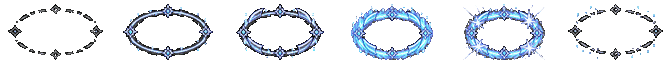
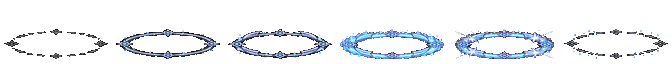
Fix Shen portraits and motion alignment

diff --git a/mods/lol_mod/tools/validate_lol_mod.py b/mods/lol_mod/tools/validate_lol_mod.py
@@ -168,10 +168,10 @@ def validate_animation(sheet_relative: str, anim_relative: str, required: dict[s
 def validate_actor_and_icons(champion: dict[str, Any]) -> None:
     actor_path = MOD_ROOT / "aseprite_resources/champions/shen#sheet.png"
     actor = Image.open(actor_path).convert("RGBA")
-    check(actor.size == (768, 64), f"actor sheet must be 768x64, got {actor.size}")
+    check(actor.size == (1152, 64), f"actor sheet must be 1152x64, got {actor.size}")
     bboxes = []
     hashes = []
-    for index in range(12):
+    for index in range(18):
         frame = actor.crop((index * 64, 0, (index + 1) * 64, 64))
         bbox = frame.getchannel("A").getbbox()
         check(bbox is not None, f"actor frame {index} is empty")
@@ -181,12 +181,31 @@ def validate_actor_and_icons(champion: dict[str, Any]) -> None:
             check(bbox[0] >= 2 and bbox[2] <= 62, f"actor frame {index} touches a side edge")
         hashes.append(hashlib.sha256(frame.tobytes()).hexdigest())
     if bboxes:
-        core_heights = [bbox[3] - bbox[1] for bbox in bboxes[:11]]
+        core_heights = [bbox[3] - bbox[1] for bbox in bboxes[:17]]
         check(max(core_heights) / min(core_heights) <= 1.22, "core actor body scale varies by more than 22%")
         first = bboxes[0]
         check(first[1] <= 12 and 44 <= first[3] <= 46 and first[3] - first[1] >= 34, "first idle frame does not match the official full-body baseline")
-    check(len(set(hashes[2:5])) == 3, "run source poses must be visually distinct")
-    check(len(set(hashes[5:8])) == 3, "attack source poses must be visually distinct")
+    check(len(set(hashes[2:11])) == 9, "run cycle must contain nine unique image-gen poses")
+    check(hashes[2] != hashes[10], "run cycle first and last poses must not be identical")
+    check(len(set(hashes[11:14])) == 3, "attack source poses must be visually distinct")
+
+    run_frames = [actor.crop((index * 64, 0, (index + 1) * 64, 64)) for index in range(2, 11)]
+    lower_sets: list[set[tuple[int, int]]] = []
+    lower_counts: list[int] = []
+    for frame in run_frames:
+        alpha = frame.getchannel("A")
+        pixels = {(x, y) for y in range(32, 46) for x in range(64) if alpha.getpixel((x, y)) >= 128}
+        lower_sets.append(pixels)
+        lower_counts.append(len(pixels))
+    if lower_counts:
+        check(min(lower_counts) >= max(lower_counts) * 0.45, "a run frame loses too much lower-body/leg detail")
+    differences = []
+    for current, following in zip(lower_sets, lower_sets[1:] + lower_sets[:1], strict=True):
+        union = current | following
+        differences.append(len(current ^ following) / len(union) if union else 0.0)
+    if differences:
+        check(min(differences) >= 0.08, "adjacent run frames are too similar to show a gait phase")
+        check(max(differences) <= 0.85, "adjacent run frames change too abruptly")
 
     for icon_path in champion.get("skill_icons", []):
         relative = icon_path.removeprefix("asset/lol_mod/") + ".png"
@@ -196,6 +215,32 @@ def validate_actor_and_icons(champion: dict[str, Any]) -> None:
             icon = Image.open(path)
             check(icon.size == (64, 64), f"{relative} must be 64x64")
             check(icon.convert("RGBA").getchannel("A").getbbox() is not None, f"{relative} is empty")
+
+
+def validate_compact_view_and_w_layout() -> None:
+    style = load_json("style/champion_view.champion_view")
+    shen = style.get("entries", {}).get("lol_shen", {})
+    check(shen.get("face") == {"x": 6, "y": -34}, "compact portrait must center Shen's head at face x=6/y=-34")
+    check(shen.get("center") == {"x": 0, "y": -12}, "battle/card center offset must remain x=0/y=-12")
+
+    w_path = MOD_ROOT / "aseprite_resources/effects/shen_w#sheet.png"
+    w_sheet = Image.open(w_path).convert("RGBA")
+    check(w_sheet.size == (672, 64), f"W sheet must be 672x64, got {w_sheet.size}")
+    for index in range(6):
+        frame = w_sheet.crop((index * 112, 0, (index + 1) * 112, 64))
+        bbox = frame.getchannel("A").getbbox()
+        check(bbox is not None, f"W frame {index} is empty")
+        if not bbox:
+            continue
+        width = bbox[2] - bbox[0]
+        height = bbox[3] - bbox[1]
+        center_x = (bbox[0] + bbox[2] - 1) / 2
+        center_y = (bbox[1] + bbox[3] - 1) / 2
+        check(96 <= width <= 106, f"W frame {index} must span a readable 96-106px field width")
+        check(24 <= height <= 34, f"W frame {index} must be a flat 24-34px ground ellipse")
+        check(54 <= center_x <= 57, f"W frame {index} is not horizontally centered")
+        check(42 <= center_y <= 45, f"W frame {index} is not centered on Shen's y=44 foot point")
+        check(bbox[0] >= 2 and bbox[2] <= 110 and bbox[1] >= 2 and bbox[3] <= 62, f"W frame {index} touches an atlas edge")
 
 
 def validate_localization() -> None:
@@ -252,14 +297,14 @@ def validate_audio(champion: dict[str, Any], override: dict[str, Any]) -> None:
 def validate_imagegen_sources() -> None:
     manifest = load_json("qa/shen_imagegen_sources.json")
     roles = {source.get("role") for source in manifest.get("sources", [])}
-    check(roles == {"actor_model", "q_icon", "w_icon", "r_icon", "q_vfx", "w_vfx", "r_vfx"}, "image-gen source roles are incomplete")
+    check(roles == {"actor_model", "run_cycle", "q_icon", "w_icon", "r_icon", "q_vfx", "w_vfx", "r_vfx"}, "image-gen source roles are incomplete")
     for source in manifest.get("sources", []):
         path = MOD_ROOT / source.get("path", "missing")
         check(path.is_file(), f"missing image-gen source: {source.get('path')}")
         if path.is_file():
             check(sha256(path) == source.get("sha256"), f"image-gen source hash mismatch: {source.get('path')}")
     processed = sorted((MOD_ROOT / "source/processed").glob("*_alpha.png"))
-    check(len(processed) == 7, "processed image-gen source set must contain 7 alpha PNGs")
+    check(len(processed) == 8, "processed image-gen source set must contain 8 alpha PNGs")
     for path in processed:
         image = Image.open(path).convert("RGBA")
         corners = [image.getpixel((0, 0)), image.getpixel((image.width - 1, 0)), image.getpixel((0, image.height - 1)), image.getpixel((image.width - 1, image.height - 1))]
@@ -285,7 +330,6 @@ def main() -> int:
     champion = load_json("champion/lol_shen.data_champion")
     override = load_json("mod.override_info")
     load_json("mod.mod_info")
-    load_json("style/champion_view.champion_view")
     validate_data_contract(champion)
     validate_animation(
         "aseprite_resources/champions/shen#sheet.png",
@@ -296,6 +340,7 @@ def main() -> int:
     validate_animation("aseprite_resources/effects/shen_w#sheet.png", "aseprite_resources/effects/shen_w#anim.fanim", {"field": 6})
     validate_animation("aseprite_resources/effects/shen_r#sheet.png", "aseprite_resources/effects/shen_r#anim.fanim", {"guard": 5, "arrival": 4})
     validate_actor_and_icons(champion)
+    validate_compact_view_and_w_layout()
     validate_localization()
     validate_audio(champion, override)
     validate_imagegen_sources()

diff --git a/mods/lol_mod/tools/build_lol_mod.py b/mods/lol_mod/tools/build_lol_mod.py
@@ -19,6 +19,7 @@ ICON_DIR = MOD_ROOT / "icons"
 QA_DIR = MOD_ROOT / "qa"
 
 ACTOR_SOURCE = SOURCE / "shen_actor_contact_alpha.png"
+RUN_SOURCE = SOURCE / "shen_run_contact_alpha.png"
 ICON_SOURCES = {
     "shen_skill.png": SOURCE / "shen_q_icon_source_alpha.png",
     "shen_skill2.png": SOURCE / "shen_w_icon_source_alpha.png",
@@ -26,7 +27,7 @@ ICON_SOURCES = {
 }
 VFX_SOURCES = {
     "shen_q": (SOURCE / "shen_q_vfx_contact_alpha.png", 4, 2, (64, 64), (58, 48)),
-    "shen_w": (SOURCE / "shen_w_vfx_contact_alpha.png", 3, 2, (112, 64), (104, 56)),
+    "shen_w": (SOURCE / "shen_w_vfx_contact_alpha.png", 3, 2, (112, 64), (104, 30)),
     "shen_r": (SOURCE / "shen_r_vfx_contact_alpha.png", 4, 2, (112, 112), (100, 100)),
 }
 
@@ -115,7 +116,7 @@ def fit_cell(
 def build_actor() -> tuple[Path, Path, list[Image.Image]]:
     source = Image.open(ACTOR_SOURCE).convert("RGBA")
     cells = split_grid(source, 4, 3)
-    frames: list[Image.Image] = []
+    base_frames: list[Image.Image] = []
     # A proven 64x64 additive actor (Galio) occupies about 35 pixels in idle.
     # Keep Shen in that same battle/UI scale class instead of letting the large
     # image-gen source fill the full frame and get cropped in compact cards.
@@ -138,7 +139,29 @@ def build_actor() -> tuple[Path, Path, list[Image.Image]]:
         # encyclopedia cards, compact portraits, and the battle map.
         y = 45 - resized.height
         frame.alpha_composite(resized, (x, y))
-        frames.append(frame)
+        base_frames.append(frame)
+
+    # The original contact sheet only supplied three broad run poses. A second
+    # image-gen pass supplies nine unique gait phases so the reduced sprite keeps
+    # readable left/right contacts and two real passing (cross-step) silhouettes.
+    run_source = Image.open(RUN_SOURCE).convert("RGBA")
+    run_frames: list[Image.Image] = []
+    for cell in split_grid(run_source, 3, 3):
+        cell = hard_alpha(cell)
+        subject = cell.crop(alpha_bbox(cell))
+        scale = min(36 / subject.height, 58 / subject.width)
+        resized = subject.resize(
+            (max(1, round(subject.width * scale)), max(1, round(subject.height * scale))),
+            Image.Resampling.LANCZOS,
+        )
+        resized = palette_finish(resized, 40)
+        frame = Image.new("RGBA", (64, 64), (0, 0, 0, 0))
+        frame.alpha_composite(resized, ((64 - resized.width) // 2, 45 - resized.height))
+        run_frames.append(frame)
+
+    # Runtime atlas order: two idles, nine generated run phases, then the seven
+    # non-run actions from the accepted 4x3 actor source.
+    frames = [base_frames[0], base_frames[1], *run_frames, *base_frames[5:12]]
 
     atlas = Image.new("RGBA", (64 * len(frames), 64), (0, 0, 0, 0))
     for index, frame in enumerate(frames):
@@ -151,13 +174,13 @@ def build_actor() -> tuple[Path, Path, list[Image.Image]]:
 
     sequences: dict[str, tuple[list[int], list[float]]] = {
         "idle": ([0, 1, 0, 1, 0, 1, 0], [0.12] * 7),
-        "run": ([2, 3, 4, 3, 2, 3, 4, 3, 2], [0.08] * 9),
-        "attack": ([5, 6, 6, 7, 0, 0], [0.05, 0.05, 0.05, 0.08, 0.08, 0.09]),
-        "skill": ([5, 8, 8, 8, 7, 1, 0], [0.06, 0.07, 0.08, 0.09, 0.10, 0.10, 0.10]),
-        "skill2": ([0, 9, 9, 1, 0], [0.08, 0.12, 0.12, 0.09, 0.09]),
-        "ult": ([0, 10, 10, 10, 0], [0.12, 0.18, 0.48, 0.22, 0.20]),
-        "hit": ([11], [0.12]),
-        "dead": ([11], [0.60]),
+        "run": (list(range(2, 11)), [0.08] * 9),
+        "attack": ([11, 12, 12, 13, 0, 0], [0.05, 0.05, 0.05, 0.08, 0.08, 0.09]),
+        "skill": ([11, 14, 14, 14, 13, 1, 0], [0.06, 0.07, 0.08, 0.09, 0.10, 0.10, 0.10]),
+        "skill2": ([0, 15, 15, 1, 0], [0.08, 0.12, 0.12, 0.09, 0.09]),
+        "ult": ([0, 16, 16, 16, 0], [0.12, 0.18, 0.48, 0.22, 0.20]),
+        "hit": ([17], [0.12]),
+        "dead": ([17], [0.60]),
     }
     anims: dict[str, object] = {}
     for name, (indexes, durations) in sequences.items():
@@ -203,7 +226,19 @@ def build_vfx() -> list[Path]:
     outputs: list[Path] = []
     for name, (source_path, columns, rows, frame_size, max_visible) in VFX_SOURCES.items():
         source = Image.open(source_path).convert("RGBA")
-        frames = [fit_cell(cell, frame_size, max_visible) for cell in split_grid(source, columns, rows)]
+        if name == "shen_w":
+            frames = []
+            for cell in split_grid(source, columns, rows):
+                cell = hard_alpha(cell)
+                subject = cell.crop(alpha_bbox(cell)).resize(max_visible, Image.Resampling.LANCZOS)
+                subject = palette_finish(subject)
+                centered = Image.new("RGBA", frame_size, (0, 0, 0, 0))
+                x = (frame_size[0] - subject.width) // 2
+                y = round(44 - subject.height / 2)
+                centered.alpha_composite(subject, (x, y))
+                frames.append(centered)
+        else:
+            frames = [fit_cell(cell, frame_size, max_visible) for cell in split_grid(source, columns, rows)]
         atlas = Image.new("RGBA", (frame_size[0] * len(frames), frame_size[1]), (0, 0, 0, 0))
         for index, frame in enumerate(frames):
             atlas.alpha_composite(frame, (index * frame_size[0], 0))
@@ -226,12 +261,15 @@ def build_vfx() -> list[Path]:
 
 def build_qa_contacts(actor_frames: list[Image.Image], icons: list[Path]) -> list[Path]:
     QA_DIR.mkdir(parents=True, exist_ok=True)
-    actor_contact = Image.new("RGBA", (4 * 128, 3 * 144), (20, 18, 28, 255))
+    actor_contact = Image.new("RGBA", (6 * 128, 3 * 144), (20, 18, 28, 255))
     draw = ImageDraw.Draw(actor_contact)
-    labels = ["idle A", "idle B", "run A", "run B", "run C", "attack A", "attack B", "attack C", "Q cast", "W cast", "R cast", "hit/dead"]
+    labels = [
+        "idle A", "idle B", *[f"run {index}" for index in range(1, 10)],
+        "attack A", "attack B", "attack C", "Q cast", "W cast", "R cast", "hit/dead",
+    ]
     for index, (frame, label) in enumerate(zip(actor_frames, labels, strict=True)):
-        x = (index % 4) * 128
-        y = (index // 4) * 144
+        x = (index % 6) * 128
+        y = (index // 6) * 144
         zoom = frame.resize((128, 128), Image.Resampling.NEAREST)
         actor_contact.alpha_composite(zoom, (x, y))
         draw.text((x + 4, y + 128), label, fill=(255, 255, 255, 255))
@@ -295,7 +333,7 @@ def main() -> int:
     parser = argparse.ArgumentParser(description=__doc__)
     parser.add_argument("--skip-manifest", action="store_true", help="Build art only")
     args = parser.parse_args()
-    missing = [path for path in [ACTOR_SOURCE, *ICON_SOURCES.values(), *(entry[0] for entry in VFX_SOURCES.values())] if not path.exists()]
+    missing = [path for path in [ACTOR_SOURCE, RUN_SOURCE, *ICON_SOURCES.values(), *(entry[0] for entry in VFX_SOURCES.values())] if not path.exists()]
     if missing:
         raise SystemExit("Missing processed image-gen sources:\n" + "\n".join(str(path) for path in missing))
     actor_sheet, actor_anim, actor_frames = build_actor()

diff --git a/tests/test_shen_mod.py b/tests/test_shen_mod.py
@@ -37,9 +37,10 @@ def test_data_champion_is_additive_and_localized() -> None:
 def test_generated_sources_and_official_audio_are_auditable() -> None:
     imagegen = json.loads((MOD / "qa" / "shen_imagegen_sources.json").read_text(encoding="utf-8"))
     audio = json.loads((MOD / "qa" / "shen_official_audio_sources.json").read_text(encoding="utf-8"))
-    assert len(imagegen["sources"]) == 7
+    assert len(imagegen["sources"]) == 8
     assert {entry["role"] for entry in imagegen["sources"]} == {
         "actor_model",
+        "run_cycle",
         "q_icon",
         "w_icon",
         "r_icon",

diff --git a/mods/lol_mod/source/imagegen/PROMPTS.md b/mods/lol_mod/source/imagegen/PROMPTS.md
@@ -1,10 +1,14 @@
 # Shen image-gen prompts
 
-All seven accepted sources were generated with the built-in `image_gen` path on 2026-07-10. The solid `#ff00ff` background was removed with the installed imagegen chroma-key helper before packing.
+All eight accepted sources were generated with the built-in `image_gen` path on 2026-07-10. The requested `#ff00ff` background was removed with the installed imagegen chroma-key helper before packing.
 
 ## Actor model contact sheet
 
 Use case: stylized-concept. Asset type: final-scale 2D pixel-art game character sprite source sheet for Teamfight Manager 2. Create one consistent 4x3 sheet of Shen, the masked twilight ninja protector, with exactly twelve full-body poses: two idle poses, three run poses, three basic sword attack poses, Q/W/R cast poses, and one hit/death pose. Keep the same compact chibi masked ninja in every cell, facing screen-right in 3/4 side view, with indigo/charcoal armor, violet sash, steel mask, blue eye slit, small sword, and a teal-violet spectral spirit blade. Refined hand-painted pixel art; hard pixel clusters; restrained palette; crisp opaque edges; full head, body, legs and feet; stable scale; generous padding. Perfectly flat `#ff00ff` chroma background. No labels, grid lines, text, logos, watermark, shadows, floor, gradients, cropping, oversized weapon, different model, soft transparency, or UI frame.
+
+## Nine-frame run-cycle refinement
+
+Create a NEW exact 3 columns x 3 rows contact sheet containing NINE UNIQUE sequential run-cycle frames for the exact same Shen character shown in the attached actor references. No drawn grid and no labels. This must be one coherent loop, read left-to-right then top-to-bottom: 1 near/left heel contact forward, 2 near-leg loading, 3 near-leg midstance with far leg swinging, 4 clear passing pose with lower legs/ankles visibly crossing beneath the pelvis, 5 far/right heel contact forward, 6 far-leg loading, 7 far-leg midstance with near leg swinging, 8 opposite clear passing/cross step, 9 toe-off/recovery that flows into frame 1 but is visibly different from frame 1. Keep all nine poses screen-right in identical 3/4 side view. Preserve the exact approved compact chibi masked twilight ninja model in every cell: same indigo/charcoal armor, violet sash, steel mask and cyan eye slit, small waist sword, teal-violet floating spirit blade, exact head/body proportions and palette. Make the alternating legs, bent knees, planted feet, and two cross-step silhouettes very obvious at 36-pixel final actor height. Keep pelvis centered, one stable body scale, one stable foot baseline, full body and feet, generous equal cell padding. Crisp hand-painted pixel clusters and hard opaque edges. Perfectly flat `#ff00ff` chroma background. No text, numbers, labels, arrows, borders, grid lines, duplicate frames, mirrored whole character, left-facing pose, model redesign, inconsistent sword or spirit blade, motion blur, speed streaks, shadows, floor, cropping, soft transparency, logo, or watermark.
 
 ## Q icon
 

diff --git a/mods/lol_mod/qa/shen_visual_qa.md b/mods/lol_mod/qa/shen_visual_qa.md
@@ -3,11 +3,11 @@
 | Surface / ability | Source route | Result |
 | --- | --- | --- |
 | Actor model | built-in image-gen 4x3 accepted character anchor, chroma-keyed and packed to 64x64 frames at the proven ~35 px body-height class with the official y=45 foot baseline | generated; oversize and 17 px low-anchor regressions fixed |
-| Idle/run/attack | exact accepted actor anchor; stable global scale; no replacement model | generated; live map check required |
+| Idle/run/attack | accepted actor anchor plus an image-gen 3x3 run refinement; stable 36 px scale and y=45 baseline | nine unique 0.08 s run phases; no loop-end duplicate |
 | Q | separate spectral blade projectile sheet | distinct |
-| W | separate elliptical refuge-field sheet | distinct |
+| W | separate image-gen refuge-field sheet, packed to a 104x30 ground ellipse centered at (56, 43.5) | distinct; caster foot point and field center aligned |
 | R | separate target shield / teleport arrival sheet | distinct |
 | Skill icons | three independent built-in image-gen sources, ordered Q/W/R | distinct |
-| Compact portrait | independent `face {x:0,y:-34}` camera over the y=45 actor baseline; `center {x:0,y:-12}` remains the full-body/BP/battle camera | static contract aligned; six supplied live surfaces require recheck |
+| Compact portrait | measured `face {x:6,y:-34}` camera over the y=45 actor baseline; `center {x:0,y:-12}` remains the full-body/BP/battle camera | source-to-screen match removes the 12 px right shift; live recheck required |
 
-Acceptance rule: generated cast effects may be masked out of actor cells because Q/W/R have dedicated VFX sheets. No code-drawn substitute body is allowed. The accepted actor source is `source/imagegen/shen_actor_contact.png`; all runtime actor frames are derived only from that file.
+Acceptance rule: generated cast effects may be masked out of actor cells because Q/W/R have dedicated VFX sheets. No code-drawn substitute body is allowed. The accepted actor sources are `source/imagegen/shen_actor_contact.png` and its model-consistent `source/imagegen/shen_run_contact.png` refinement.

diff --git a/mods/lol_mod/qa/shen_motion_vfx_regression_qa.md b/mods/lol_mod/qa/shen_motion_vfx_regression_qa.md
@@ -1,0 +1,21 @@
+# Shen motion and W alignment regression QA
+
+This pass responds to the live reports that the run lacked a visible cross-step and that Spirit's Refuge did not visually center on the caster.
+
+## Run cycle
+
+- Source: built-in image-gen 3x3 refinement using the accepted Shen actor as the exact character reference.
+- Runtime: nine unique frames, each 0.08 seconds, ordered once with no repeated first frame at the loop boundary.
+- Every generated frame ends at the y=45 foot baseline and has a 36 px visible height.
+- Lower-body opaque-pixel counts: `173, 179, 194, 206, 236, 176, 163, 190, 177`.
+- Consecutive lower-body difference/union ratios, including the loop boundary: `0.429, 0.465, 0.367, 0.399, 0.534, 0.408, 0.452, 0.464, 0.380`.
+
+The validator requires all nine poses to remain unique, rejects a repeated first/last pose, rejects lower-body detail collapse, and constrains adjacent gait changes.
+
+## Spirit's Refuge
+
+- Data binding remains `CasterViewEffect`, `AroundCaster`, `is_follow: true`, and `z: -1`.
+- The six image-gen field phases are packed into 112x64 frames with target alpha bounds `(4,29)-(108,59)` (the spark phase is `(7,29)-(106,59)`).
+- Visible field size is approximately 104x30 px and its vertical center is y=43.5, aligned with Shen's y=45 foot point instead of the rejected y=31.5 center.
+
+The validator rejects W frames outside the 96–106 px width, 24–34 px height, centered x=54–57/y=42–45 contract.

diff --git a/mods/lol_mod/qa/shen_live_qa.md b/mods/lol_mod/qa/shen_live_qa.md
@@ -2,7 +2,7 @@
 
 Static/build checks are automated. These live checks are release gates:
 
-- [ ] Game log reaches `asset loading done!` with no data champion, asset, or sound errors.
+- [x] Game log reaches `asset loading done!` with no data champion, asset, or sound errors.
 - [ ] Shen is visible in encyclopedia/draft with the correct localized name and Q/W/R icons.
 - [ ] Card, weekly report, scoreboard, side list, and battle HUD show a readable full-body/compact portrait.
 - [ ] A current battle screenshot visibly contains Shen; draft telemetry alone is not accepted.
@@ -12,3 +12,5 @@ Static/build checks are automated. These live checks are release gates:
 - [ ] R applies the shield before the 0.8-second teleport and taunts enemies on arrival.
 - [ ] Multiple unequal-health ally scenarios record which ally the built-in `AllyNotSelf` AI selects; do not upgrade the lowest-health claim without repeated proof.
 - [ ] Official attack/Q/W/R audio is audible and correctly timed in battle.
+
+Latest automated startup smoke: 2026-07-10 09:09 JST. The game reached `asset loading done!` with zero Shen/`lol_mod` errors and zero panic/fatal lines. The remaining `network asset load error: UnexpectedEof` default-banpick fallback and Workshop item 3736031680 warning are unrelated to this mod.

diff --git a/mods/lol_mod/qa/shen_scale_regression_qa.md b/mods/lol_mod/qa/shen_scale_regression_qa.md
@@ -7,7 +7,9 @@ The first live pass was rejected after six user-supplied surfaces showed the sam
 | Idle visible height | 54 px | 36 px (reference additive contract: ~35 px) |
 | Core action visible-height range | 47–54 px | 31–36 px |
 | Foot baseline inside 64×64 frame | y=62 | y=45 |
-| Compact camera | shared/experimental | `face {x:0,y:-34}` |
+| Compact camera | shared/experimental | `face {x:6,y:-34}` |
 | Full-body/BP/battle camera | `center {x:0,y:-12}` | `center {x:0,y:-12}` |
 
 The accepted rebuild keeps the exact same image-gen actor anchor and action poses. It changes only the uniform packing scale and frame placement. `validate_lol_mod.py` now fails if any actor frame crosses y=46, if the first idle does not end at y=44–46, or if core scale varies by more than 22%.
+
+A second user screenshot pass proved that compact portrait scale and vertical placement were already in the official range, but the floating blade pulled Shen's helmet 12 rendered pixels to the right. Source-to-screen pixel matching established a fixed 2x render, so `face.x=6` is the measured per-champion correction; `face.y=-34` and the battle `center` remain unchanged.
